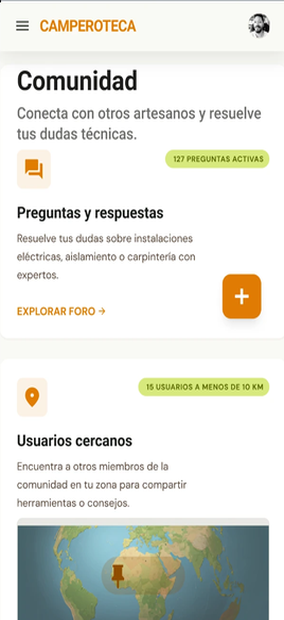
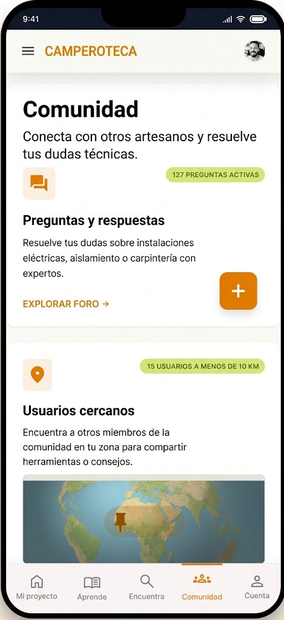
fix(camperoteca): correct screen dimensions and add comunidad mockup
- Resize login screen to 284x620 (was 572x1024)
- Add comunidad screen at 284x620
- Both placeholders replaced with real images

Claude-Session: https://claude.ai/code/session_01CQa4xash6mYWYEY8mbbWkX

diff --git a/app/[lang]/work/camperoteca/page.tsx b/app/[lang]/work/camperoteca/page.tsx
@@ -1364,11 +1364,11 @@ export default async function CamperotecaPage({ params }: Props) {
                 placeholder: false,
               },
               {
-                src: "",
-                alt: "",
+                src: "/assets/camperoteca/screen-comunidad.png",
+                alt: "Pantalla de Comunidad de Camperoteca",
                 title: C.ui_comunidad_title,
                 body: C.ui_comunidad_body,
-                placeholder: true,
+                placeholder: false,
               },
             ].map(({ src, alt, title, body, placeholder }) => (
               <div key={title}>
